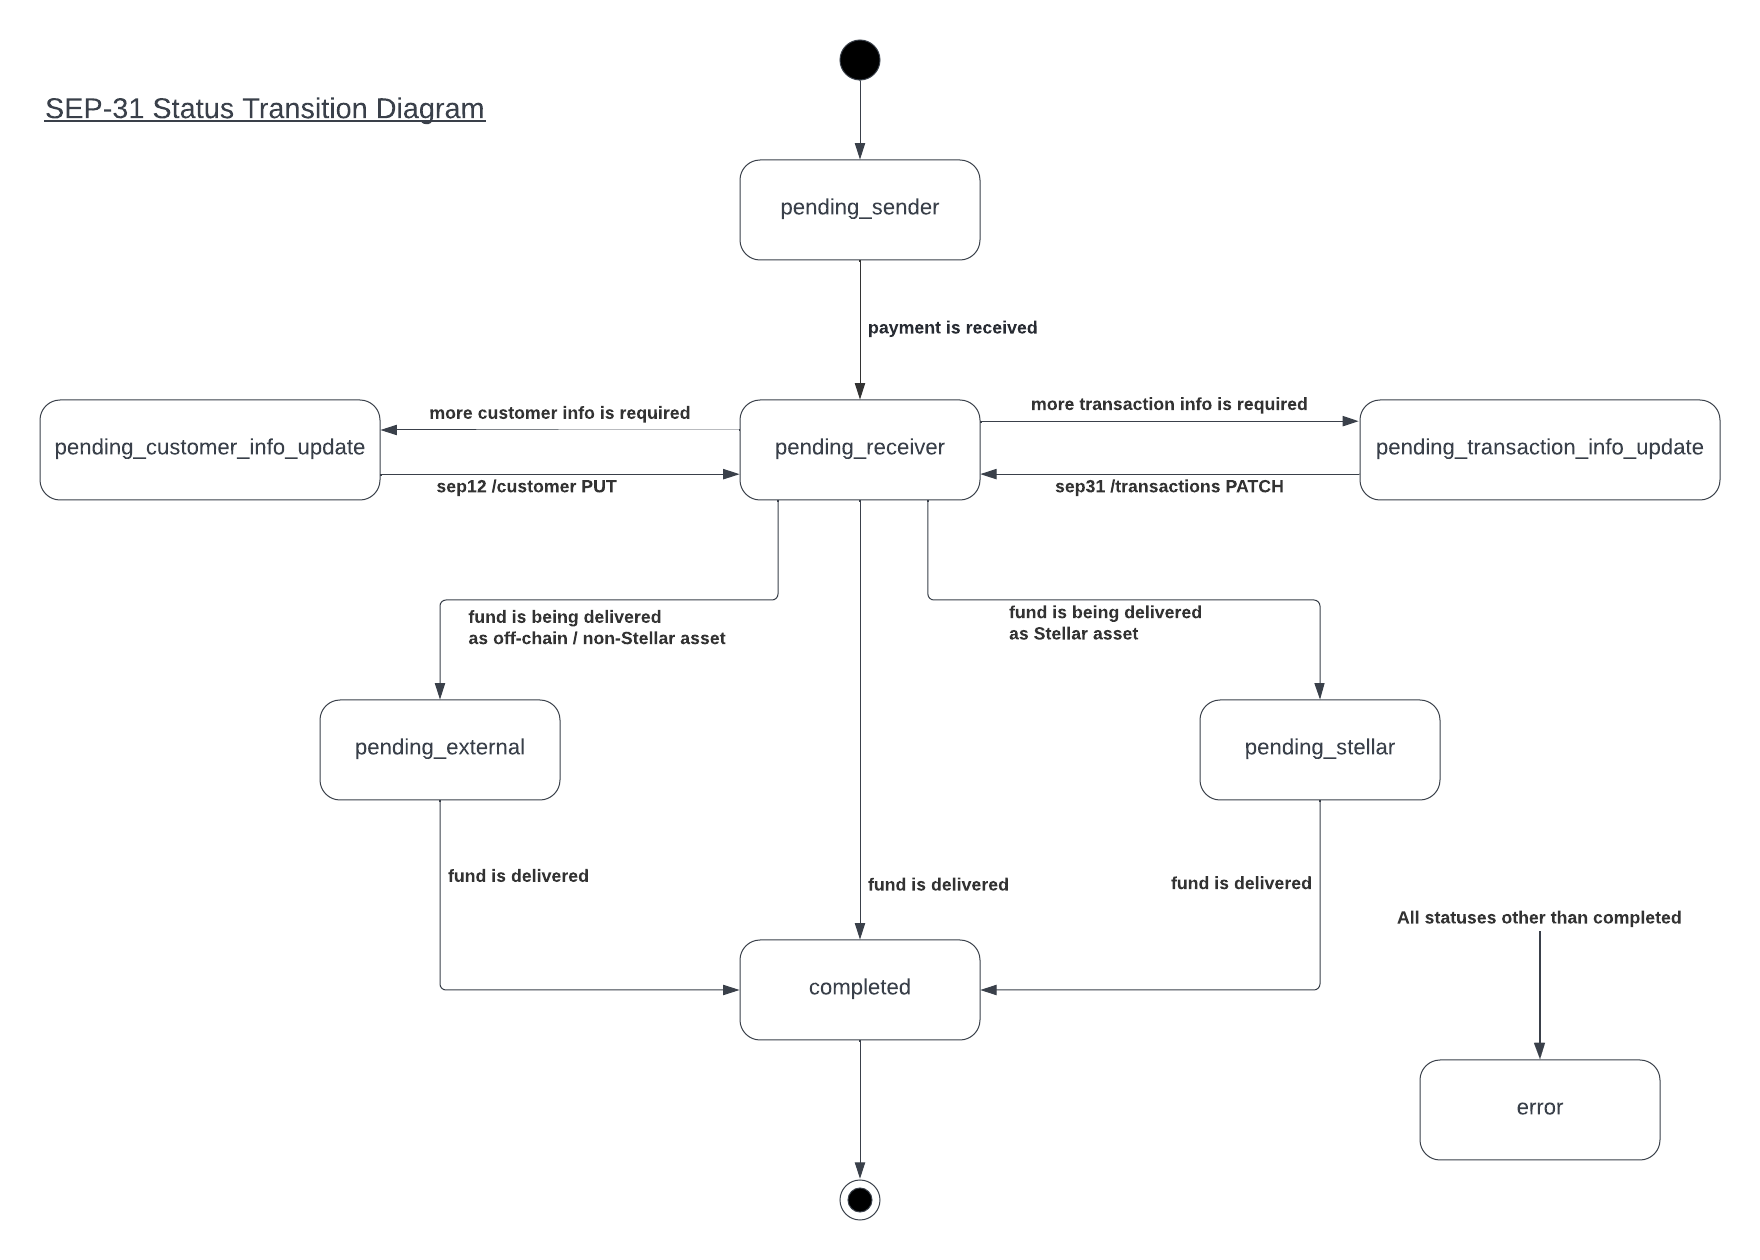
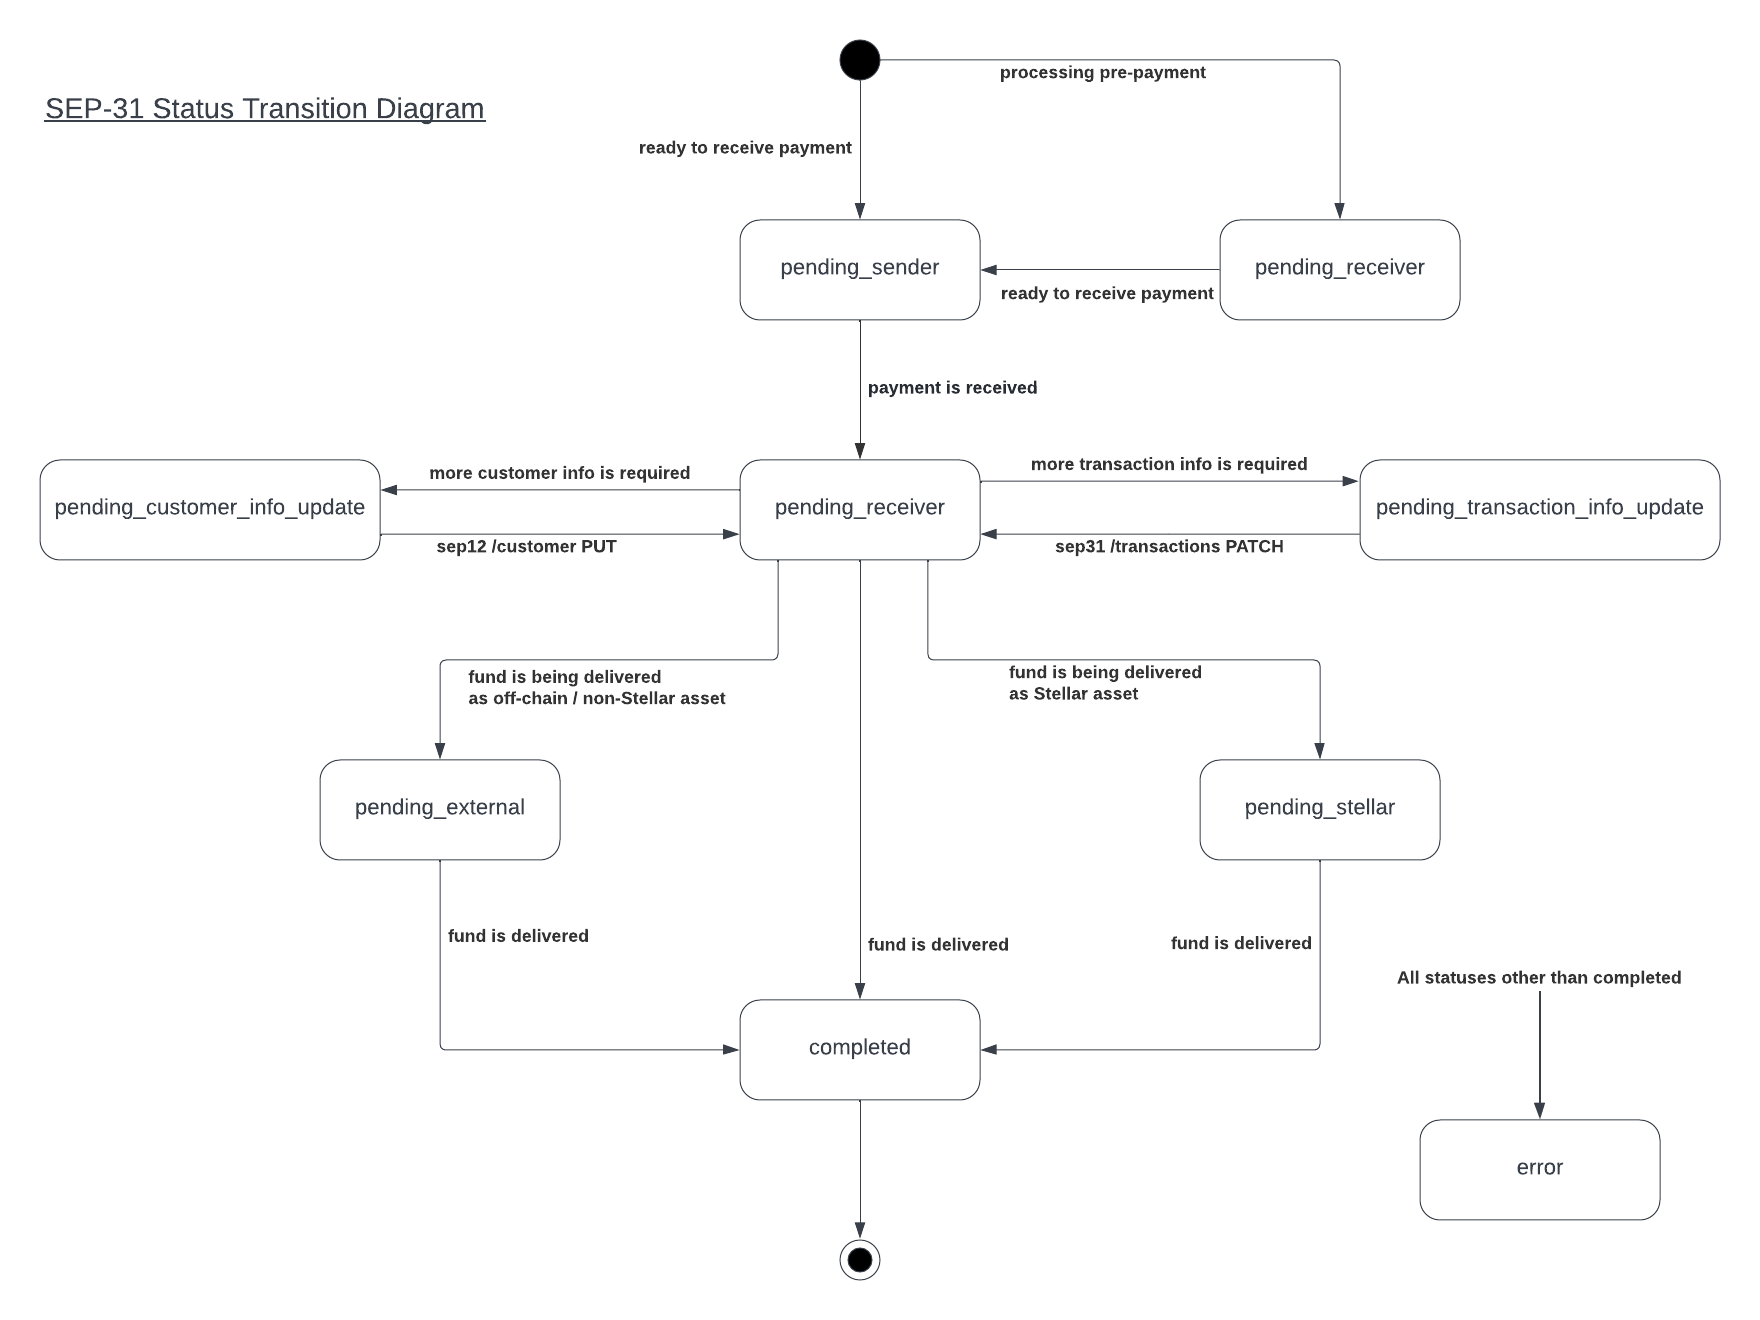
SEP-31: make destination address & memo optional in POST /transactions response (#1294)

diff --git a/ecosystem/sep-0031.md b/ecosystem/sep-0031.md
@@ -1,4 +1,3 @@
-
 ## Preamble
 
 ```
@@ -7,8 +6,8 @@ Title: Cross-Border Payments API
 Author: SDF
 Status: Active
 Created: 2020-04-07
-Updated: 2022-07-20
-Version 1.10.0
+Updated: 2022-08-12
+Version 2.0.0
 ```
 
 ## Simple Summary
@@ -442,14 +441,22 @@ Name | Type | Description
 
 ##### Success (201 Created)
 
-This is the successful case where a Receiving Anchor confirms that they can fulfill this payment as described. The response body should be a JSON object with the following values
+This is the successful case where a Receiving Anchor either confirms that they can fulfill this payment as described or that confirmation is pending.
+
+Anchors must check for whether `stellar_account_id`, `stellar_memo`, & `stellar_memo_type` values are present in the response.
+
+If these values are not present, the Receiving Anchor is processing the information sent and determining if the transaction can proceed. In this case, the transaction's status is `pending_receiver` and the Sending Anchor should use monitor the transaction until it's status moves to `pending_sender` or `error`. 
+
+When the transaction status moves to `pending_sender`, the Stellar account & memo fields should be populated.
+
+Sending Anchors can monitor the transaction's status by registering a callback URL via [`PUT /transactions/:id/callback`](#put-transaction-callback) or by polling [`GET /transactions/:id`](#get-transaction). 
 
 Name | Type | Description
 -----|------|------------
 `id` | string | The persistent identifier to check the status of this payment transaction.
-`stellar_account_id` | string | The Stellar account to send payment to.
-`stellar_memo_type` | string | The type of memo to attach to the Stellar payment (`text`, `hash`, or `id`).
-`stellar_memo` | string | The memo to attach to the Stellar payment.
+`stellar_account_id` | string | (optional) The Stellar account to send payment to.
+`stellar_memo_type` | string | (optional) The type of memo to attach to the Stellar payment (`text`, `hash`, or `id`).
+`stellar_memo` | string | (optional) The memo to attach to the Stellar payment.
 
 ##### Customer Info Needed (400 Bad Request)
 
@@ -516,6 +523,7 @@ Name | Type | Description
 `id` | string | The ID returned from the `POST /transactions` request that created this transaction record.
 `status` | string | The status of the transaction. Values are outlined below.
 `status_eta` | number | (optional) The estimated number of seconds until a status change is expected.
+`status_message` | string | (optional) A human-readable message describing the status of the transaction.
 `amount_in` | string | (optional) The amount of the Stellar asset received or to be received by the Receiving Anchor. Excludes any fees charged after Receiving Anchor receives the funds. If a `quote_id` was used, the `amount_in` should be equals to both: (i) the `amount` value used in the [`POST /transactions`](#post-transactions) request; and (ii) the quote's `sell_amount`.
 `amount_in_asset` | string | (optional) The asset received or to be received by the Receiving Anchor. Must be present if `quote_id` or `destination_asset` was included in the `POST /transactions` request. The value must be in [SEP-38 Asset Identification Format](sep-0038.md#asset-identification-format).
 `amount_out` | string | (optional) The amount sent or to be sent by the Receiving Anchor to the Receiving Client. When using a `destination_asset` in the [`POST /transactions`](#post-transactions) request, it's expected that this value is only populated after the Receiving Anchor receives the incoming payment. Should be equals to `quote.buy_amount` if a `quote_id` was used.
@@ -523,9 +531,9 @@ Name | Type | Description
 `amount_fee` | string | (optional) The amount of fee charged by the Receiving Anchor. Should be equals `quote.fee.total` if a `quote_id` was used.
 `amount_fee_asset` | string | (optional) The asset in which fees are calculated in. Must be present if `quote_id` or `destination_asset` was included in the `POST /transactions` request. The value must be in [SEP-38 Asset Identification Format](sep-0038.md#asset-identification-format). Should be equals `quote.fee.asset` if a `quote_id` was used.
 `quote_id` | string | (optional) The ID of the quote used to create this transaction. Should be present if a `quote_id` was included in the `POST /transactions` request. Clients should be aware though that the `quote_id` may not be present in older implementations.
-`stellar_account_id` | string | The Receiving Anchor's Stellar account that the Sending Anchor will be making the payment to.
-`stellar_memo_type` | string | The type of memo to attach to the Stellar payment: `text`, `hash`, or `id`.
-`stellar_memo` | string | The memo to attach to the Stellar payment.
+`stellar_account_id` | string | (optional) The Receiving Anchor's Stellar account that the Sending Anchor will be making the payment to.
+`stellar_memo_type` | string | (optional) The type of memo to attach to the Stellar payment: `text`, `hash`, or `id`.
+`stellar_memo` | string | (optional) The memo to attach to the Stellar payment.
 `started_at` | UTC ISO 8601 string | (optional) Start date and time of transaction.
 `completed_at` | UTC ISO 8601 string | (optional) Completion date and time of transaction.
 `stellar_transaction_id` | string | (optional) The transaction_id on Stellar network of the transfer that initiated the payment.
@@ -609,6 +617,7 @@ Pending external (without quotes):
       "id": "82fhs729f63dh0v4",
       "status": "pending_external",
       "status_eta": 3600,
+      "status_message": "Payment has been initiated via ACH deposit.",
[1 lines of base64/hex data omitted]
       "external_transaction_id": "ABCDEFG1234567890",
       "stellar_account_id": "GBRPYHIL2CI3FNQ4BXLFMNDLFJUNPU2HY3ZMFSHONUCEOASW7QC7OX2H",
@@ -884,6 +893,7 @@ It is important to note that the Receiving Anchor is not obligated, at least by 
 
 ## Changelog
 
+* `v2.0.0`: Make `stellar_account_id`, `stellar_memo`, & `stellar_memo_type` optional in the `POST /transactions` response. Add the `status_message` attribute to `GET /transactions/:id`. ([#1294](https://github.com/stellar/stellar-protocol/pull/1294))
 * `v1.10.0`: Add `quote_id` to the transaction object schema. ([#1268](https://github.com/stellar/stellar-protocol/pull/1268))
 * `v1.9.0`: Add callback signature requirement. ([#1264](https://github.com/stellar/stellar-protocol/pull/1264))
 * `v1.8.0`: Add `expired` transaction status. ([#1233](https://github.com/stellar/stellar-protocol/pull/1233))
